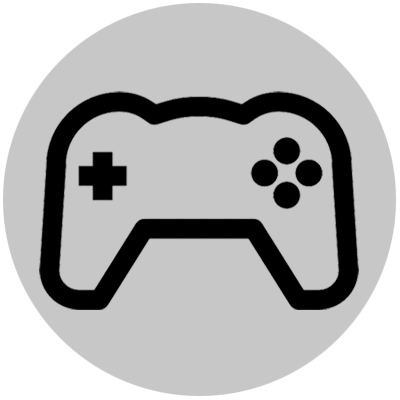
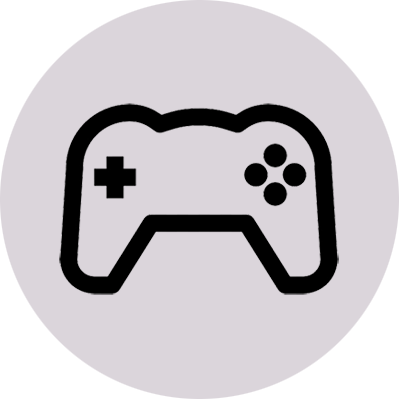
updates

diff --git a/css/style.css b/css/style.css
@@ -13,7 +13,7 @@ body {
 }
 
 header {
-	background-color: #c7c7c7;
+	background-color: #dbd5db;
 	padding-left: 7%;
 	padding-right: 7%;
 	padding-top:2%;
